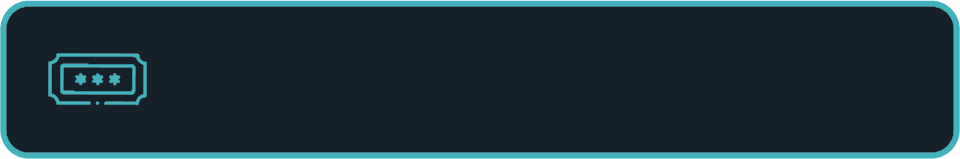
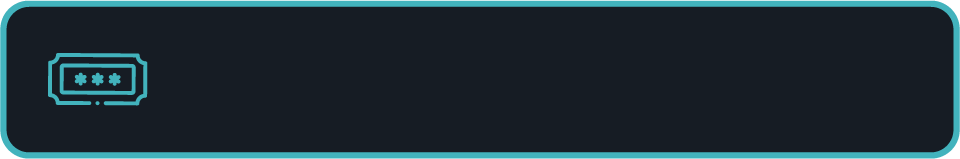
Update Furl to 3.0.0 and RPC to 1.0.166.0
- Updated Furl - 3.0.0
- Updated DiscordRPC - 1.0.166.0
- Bumped .NETFramework Target to 4.6.1
- Add back orignal stroke assets (Colors were off by a bit :thinking: )

Changed region(s): [[0.0625, 0.327, 0.1562, 0.6038], [0.0625, 0.6289, 0.1562, 0.6792]]

diff --git a/GameLauncher/Program.cs b/GameLauncher/Program.cs
@@ -19,7 +19,7 @@ namespace GameLauncher
 {
     internal static class Program {
         //Update this if a new GameLauncherUpdater.exe has been delployed - DavidCarbon
-        private static string LatestUpdaterBuildVersion = "1.0.0.4";
+        private static readonly string LatestUpdaterBuildVersion = "1.0.0.4";
 
         internal class Arguments {
             [Option('p', "parse", Required = false, HelpText = "Parses URI")]
@@ -372,8 +372,8 @@ namespace GameLauncher
                     if (mutex.WaitOne(0, false)) {
                         string[] files = {
                             "CommandLine.dll - 2.8.0",
-                            "DiscordRPC.dll - 1.0.150.0",
-                            "Flurl.dll - 2.8.2",
+                            "DiscordRPC.dll - 1.0.166.0",
+                            "Flurl.dll - 3.0.0",
                             "Flurl.Http.dll - 2.4.2",
                             "INIFileParser.dll - 2.5.2",
                             "LZMA.dll - 9.10 beta",

diff --git a/GameLauncher/App/MainScreen.cs b/GameLauncher/App/MainScreen.cs
@@ -1396,7 +1396,7 @@ namespace GameLauncher
                 {
                     _loginWelcomeTime = "Good Night";
                 }
-                currentWindowInfo.Text = string.Format(_loginWelcomeTime + "\n {0}", email.Text).ToUpper();
+                currentWindowInfo.Text = string.Format(_loginWelcomeTime + "\n{0}", email.Text).ToUpper();
             }
 
             ShowPlayPanel.Visible = hideElements;
